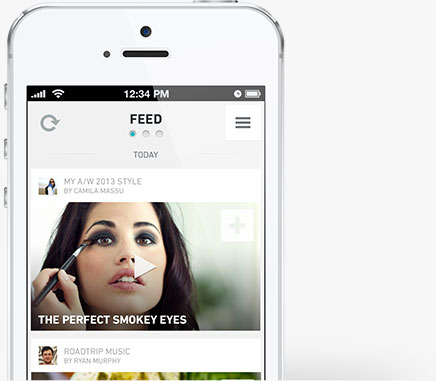
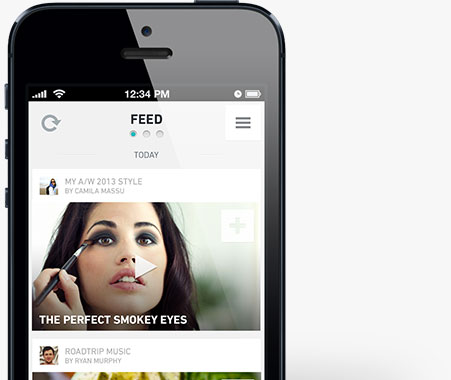
update black iphones

diff --git a/rockpack/mainsite/static/assets/weblight/css/app.less b/rockpack/mainsite/static/assets/weblight/css/app.less
@@ -787,7 +787,6 @@ footer {
 
     #iphonesinfo {
 
-      width: 910px;
       margin: 50px auto 0;
 
       h3 {
@@ -804,7 +803,7 @@ footer {
 
       div {
         display: inline-block;
-        width: 280px;
+        width: 30%;
         vertical-align: top;
         margin: 0 10px;
         text-align: center;
@@ -866,6 +865,7 @@ footer {
     text-align: center;
     padding: 60px 0;
 
+
     .wrapper > ul {
       list-style-type: none;
       margin: 60px 0 15px 0;
@@ -895,10 +895,41 @@ footer {
 
     #social {
       list-style-type: none;
+      width: 161px;
+      margin: 0 auto;
+
+      #blog {
+        background: url(/static/assets/front-page/images/blog_ipad.png);
+        width: 161px;
+        height: 44px;
+        display: block;
+      }
+
+      #twitter {
+        background: url(/static/assets/front-page/images/twitter.png);
+        width: 50px;
+        height: 44px;
+        display: block;
+      }
+
+      #facebook {
+        background: url(/static/assets/front-page/images/facebook.png);
+        width: 50px;
+        height: 44px;
+        display: block;
+      }
+
+      #instagram {
+        background: url(/static/assets/front-page/images/instagram.png);
+        width: 50px;
+        height: 44px;
+        display: block;
+      }
 
       li {
         display: inline-block;
       }
+
     }
   }
 }
@@ -1053,17 +1084,6 @@ footer {
       }
     }
 
-    #iphonescontainer {
-
-      #iphonesinfo {
-        width: auto;
-
-        div {
-          width: 250px;
-        }
-      }
-    }
-
     #faq {
 
       .container {
@@ -1117,18 +1137,7 @@ footer {
           margin: 0 60px;
         }
       }
-    }
 
-    #iphonescontainer {
-
-      #iphonesinfo {
-
-        width: 1040px;
-
-        div {
-          margin: 0 30px;
-        }
-      }
     }
 
     #faq {
@@ -1146,6 +1155,12 @@ footer {
         }
       }
 
+    }
+
+    #share {
+      #social {
+        width: auto;
+      }
     }
   }
 }
@@ -1230,6 +1245,16 @@ footer {
       .videocell {
         width: 265px;
         height: 149px;
+      }
+    }
+  }
+
+  .content-providers {
+
+    #share {
+
+      #social {
+        width: 161px;
       }
     }
   }

diff --git a/rockpack/mainsite/static/assets/front-page/front.less b/rockpack/mainsite/static/assets/front-page/front.less
@@ -166,7 +166,7 @@ body {
   #iphone3 {
     background: url(/static/assets/front-page/images/iphone3.jpg) no-repeat;
     width: 420px;
-    height: 386px;
+    height: 357px;
     display: inline-block;
   }
 
@@ -412,7 +412,7 @@ footer {
 
     #iphone2 {
       background: url(/static/assets/front-page/images/iphone2_wide.jpg);
-      width: 295px;
+      width: 291px;
       height: 386px;
       display: block;
       margin: 0 auto;
@@ -428,7 +428,7 @@ footer {
 
     #iphone3 {
       background: url(/static/assets/front-page/images/iphone3_wide.jpg);
-      width: 295px;
+      width: 282px;
       height: 386px;
       display: block;
       margin: 0 auto;
@@ -517,7 +517,7 @@ footer {
 
     #iphone2 {
       background: url(/static/assets/front-page/images/iphone2_wide.jpg);
-      width: 295px;
+      width: 291px;
       height: 386px;
     }
 
@@ -529,8 +529,8 @@ footer {
 
     #iphone3 {
       background: url(/static/assets/front-page/images/iphone3_wide.jpg);
-      width: 295px;
-      height: 386px;
+      width: 282px;
+      height: 357px;
     }
 
     #subscribe {
@@ -581,7 +581,7 @@ footer {
 @media (max-width: 767px) {
 
   .wrapper {
-    width: 90%;
+    width: 75%;
   }
 
   body {
@@ -597,13 +597,13 @@ footer {
   #iphone-instructions {
 
     .imgcontainer {
-      width: 48%;
+      width: 40%;
       display: inline-block;
       vertical-align: top;
+      margin-right: 2%;
+      text-align: right;
+      min-width: 132px;
 
-      img {
-        width: 110px;
-      }
     }
 
     .container {
@@ -616,6 +616,15 @@ footer {
           width: 25px;
           height: 25px;
         }
+      }
+
+      h3 {
+        font-size: 13px;
+        line-height: 13px;
+      }
+
+      p {
+        font-size: 11px;
       }
     }
   }
@@ -649,5 +658,9 @@ footer {
         }
       }
     } 
-  }  
+  }
+
+  footer {
+    background: none;
+  }
 }

diff --git a/rockpack/mainsite/static/weblight/views/contentproviders.html b/rockpack/mainsite/static/weblight/views/contentproviders.html
@@ -38,7 +38,7 @@
         <img src="/static/assets/weblight/images/rightIphone.png">
       </div>
     </div>
-    <div id="iphonesinfo">
+    <div id="iphonesinfo" class="wrapper">
       <div>
         <h3>GET FEATURED</h3>
         <p>Apply here to get featured by<br>
@@ -159,9 +159,10 @@
           <li>
             <h3>FOLLOW US</h3>
             <ul id="social">
-              <li><img src="/static/assets/front-page/images/blog.png"></li>
-              <li><img src="/static/assets/front-page/images/twitter.png"></li>
-              <li><img src="/static/assets/front-page/images/facebook.png"></li>
+              <li><a href="http://blog.rockpack.com/" id="blog" target="_blank"></a></li>
+              <li><a href="https://twitter.com/Rockpack" id="twitter" target="_blank"></a></li>
+              <li><a href="http://www.facebook.com/rockpack" id="facebook" target="_blank"></a></li>
+              <li><a href="http://instagram.com/officialrockpack" id="instagram" target="_blank"></a></li>
             </ul>
           </li>
         </ul>
